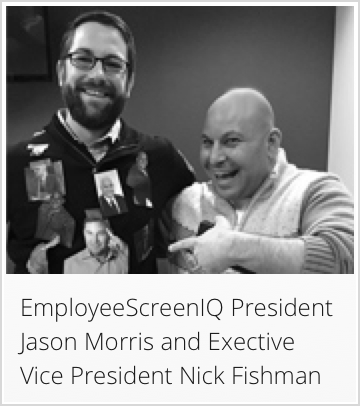
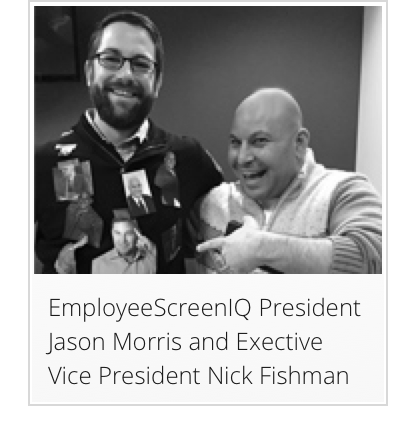
Third Draft - fisher VISTA - EmployeeScreenIQ
#1 the ESIQ logo on dark blue bar looks odd.  It seems perhaps it ought
to be left aligned or aligned with the Top 5 reasons.  Can you take a
look at that please?

#2 Any way to work in the ESIQ green?  If not NBD - I really like the
blue.

#3 Optimized for E-mail

diff --git a/trends_survey_v3.html b/trends_survey_v3.html
@@ -12,59 +12,59 @@
     @import url(http://fonts.googleapis.com/css?family=PT+Serif:400,700,400italic,700italic);
     
 a:hover {
-color: #165B9B !important;
+color: #679A29 !important;
 }
 a:active {
-color: #165B9B !important;
+color: #679A29 !important;
 }
 a:visited {
-color: #165B9B !important;
+color: #679A29 !important;
 }
 h1 a:active {
-color: #43A0F5 !important;
+color: #5B8726 !important;
 }
 h2 a:active {
-color: #43A0F5 !important;
+color: #5B8726 !important;
 }
 h3 a:active {
-color: #43A0F5 !important;
+color: #5B8726 !important;
 }
 h4 a:active {
-color: #43A0F5 !important;
+color: #5B8726 !important;
 }
 h5 a:active {
-color: #43A0F5 !important;
+color: #5B8726 !important;
 }
 h6 a:active {
-color: #43A0F5 !important;
+color: #5B8726 !important;
 }
 h1 a:visited {
-color: #43A0F5 !important;
+color: #5B8726 !important;
 }
 h2 a:visited {
-color: #43A0F5 !important;
+color: #5B8726 !important;
 }
 h3 a:visited {
-color: #43A0F5 !important;
+color: #5B8726 !important;
 }
 h4 a:visited {
-color: #43A0F5 !important;
+color: #5B8726 !important;
 }
 h5 a:visited {
-color: #43A0F5 !important;
+color: #5B8726 !important;
 }
 h6 a:visited {
-color: #43A0F5 !important;
+color: #5B8726 !important;
 }
 /* Survey Button Hover Colors */
 table.button:hover td {
-background: #2593F8 !important;
+background: #679A29 !important;
 }
 table.button:visited td {
-background: #2593F8 !important;
+background: #679A29 !important;
 }
 table.button:active td {
-background: #2593F8 !important;
+background: #679A29 !important;
 }
 table.button:hover td a {
 color: #fff !important;
@@ -76,16 +76,16 @@ table.button:active td a {
 color: #fff !important;
 }
 table.tiny-button:hover td {
-background: #2593F8 !important;
+background: #679A29 !important;
 }
 table.small-button:hover td {
-background: #2593F8 !important;
+background: #679A29 !important;
 }
 table.medium-button:hover td {
-background: #2593F8 !important;
+background: #679A29 !important;
 }
 table.large-button:hover td {
-background: #2593F8 !important;
+background: #679A29 !important;
 }
 table.button:hover td a {
 color: #ffffff !important;
@@ -352,7 +352,11 @@ background: #CC0000 !important;
   }
   /* telephone number */
   a[href^=tel] {
-  color: #43A0F5 !important;
+  color: #5B8726 !important;
+  text-decoration:none;
+  }
+  a[href^=mapLink] {
+  color: #5B8726 !important;
   text-decoration:none;
   }
   /* Formats social icons on Mobile */
@@ -416,9 +420,9 @@ background: #CC0000 !important;
                 <td style="margin: 0px; padding: 0px; vertical-align: top; border-collapse: collapse !important;" >
                                             
                   <!-- Headline -->
-                  <br/ >
-                  <h1 style="margin: 0px; padding: 0px 0px 30px 0px; text-align: center; color: #43A0F5; line-height: 85%; font-family: 'PT Serif', Times, Times New Roman, Garamond, serif; font-size: 60px; font-weight: lighter; -ms-word-break: normal;" align="left">Top <span style="font-size: 80px;">5</span> Reasons </h1>
-                                              
+                  <br />
+                  <h1 style="margin: 0px; padding: 0px; text-align: center; color: #5B8726; line-height: 85%; font-family: 'PT Serif', Times, Times New Roman, Garamond, serif; font-size: 60px; font-weight: lighter; -ms-word-break: normal;" align="left">Top <span style="font-size: 80px;">5</span> Reasons </h1>
+                  <br />                            
                   <h1 style="margin: 0px; padding: 0px; text-align: center; color: #222222; line-height: 1.05; font-family: 'Open Sans','ArialNarrowRegular', Arial, Helvetica, sans-serif; font-size: 30px; font-weight: lighter; -ms-word-break: normal;" align="left">To Take EmployeeScreenIQ's<br />6th Annual Trends Survey Today!</h1>
                                                 
                                                 
@@ -430,7 +434,7 @@ background: #CC0000 !important;
                     <table class="button" style=" width: 70%; text-align: left; overflow: hidden; vertical-align: top; border-collapse: collapse; border-spacing: 0;">
                       <tbody>
                         <tr style="text-align: left; vertical-align: top;" align="left">
-                          <td onclick="location.href='https://www.surveymonkey.com/s/PWWLQRL'" align="center" valign="top" bgcolor="#43A0F5" style="margin: 0px; width: auto !important; border-radius: 40px;  display: block; border-collapse: collapse !important;">
+                          <td onclick="location.href='https://www.surveymonkey.com/s/PWWLQRL'" align="center" valign="top" bgcolor="#5B8726" style="margin: 0px; width: auto !important; border-radius: 40px;  display: block; border-collapse: collapse !important;">
                             <br/ >
                             <a style="color: #ffffff; line-height: 110%; text-align: center; font-family: 'Open Sans','ArialNarrowRegular', Arial, Helvetica, sans-serif; font-size: 30px; font-weight: bold; text-decoration: none;" href="https://www.surveymonkey.com/s/PWWLQRL" target="_blank">Take The Survey!</a>
                             <br/ >
@@ -493,9 +497,9 @@ background: #CC0000 !important;
                           <!-- Ampersand -->  
                           <td class="amp" width="96%" valign="top" style="margin: 0px; padding: 0px; border-collapse: collapse !important;">
                             <center>
-                            <img src="http://www.hrmarketer.com/users/clients/employeescreeniq/trends_survey/images/And.png" alt="&" width="100%"  hspace="0" vspace="0" border="0" />
+                            <img src="http://www.hrmarketer.com/users/clients/employeescreeniq/trends_survey/images/AndGreen.png" alt="&" width="100%"  hspace="0" vspace="0" border="0" />
                             </center>  
-                            <!--<span style="margin: 0px; padding: 0px; text-align: center; color: #43A0F5; font-family: 'PT Serif', Times, Times New Roman, Garamond, serif; font-size: 80px; height: 40px; font-weight: lighter; font-style: italic; -ms-word-break: normal; float: left;" align="left">&amp;</span>-->
+                            <!--<span style="margin: 0px; padding: 0px; text-align: center; color: #5B8726; font-family: 'PT Serif', Times, Times New Roman, Garamond, serif; font-size: 80px; height: 40px; font-weight: lighter; font-style: italic; -ms-word-break: normal; float: left;" align="left">&amp;</span>-->
                           </td>   
                              
                           <!-- right space -->
@@ -505,7 +509,7 @@ background: #CC0000 !important;
                     </tbody>   
                   </table> 
                                                 
-                  <h1 style="margin: 0px; padding: 0px; text-align: center; color: #43A0F5; line-height: 1.05; font-family: 'PT Serif', Times, Times New Roman, Garamond, serif; font-size: 30px; font-weight: lighter; font-style: italic; -ms-word-break: normal;" align="left"> 
+                  <h1 style="margin: 0px; padding: 0px; text-align: center; color: #5B8726; line-height: 1.05; font-family: 'PT Serif', Times, Times New Roman, Garamond, serif; font-size: 30px; font-weight: lighter; font-style: italic; -ms-word-break: normal;" align="left"> 
                                               the number one reason to take the survey:</h1>
                                              
                   <!-- One -->
@@ -522,7 +526,7 @@ background: #CC0000 !important;
                       <tbody>
                                                         
                         <tr style="text-align: left; vertical-align: top;" align="left">
-                          <td onclick="location.href='https://www.surveymonkey.com/s/PWWLQRL'" align="center" valign="top" bgcolor="#43A0F5" style="margin: 0px; width: auto !important; border-radius: 40px;  display: block; border-collapse: collapse !important;">
+                          <td onclick="location.href='https://www.surveymonkey.com/s/PWWLQRL'" align="center" valign="top" bgcolor="#5B8726" style="margin: 0px; width: auto !important; border-radius: 40px;  display: block; border-collapse: collapse !important;">
                             <br/ >
                             <a style="color: #ffffff; line-height: 110%; text-align: center; font-family: 'Open Sans','ArialNarrowRegular', Arial, Helvetica, sans-serif; font-size: 30px; font-weight: bold; text-decoration: none;" href="https://www.surveymonkey.com/s/PWWLQRL" target="_blank">Take The Survey!</a>
                             <br/ >
@@ -553,7 +557,7 @@ background: #CC0000 !important;
                     <br />                    
                     <!-- Address -->
                     <p align="center" style="margin: 0px 0px 14px; padding: 0px; text-align: center; color: #222222; line-height: 21px; font-family: 'Open Sans','ArialNarrowRegular', Arial, Helvetica, sans-serif; font-size: 12px; font-weight: normal;">
-                    <span style="font-family: arial,helvetica,sans-serif;"><a style="color: #2593F8; text-decoration: none;" href="http://employeescreen.com" target="_blank">EmployeeScreenIQ</a> | P.O. Box 22627 | Cleveland, OH 44122 | <a style="color: #2593F8; text-decoration: none;" href="mailto:info@employeescreen.com">info@employeescreen.com</a> | (800) 235-3954</span>
+                    <span style="font-family: arial,helvetica,sans-serif;"><a style="color: #5B8726; text-decoration: none;" href="http://employeescreen.com" target="_blank">EmployeeScreenIQ</a> | P.O. Box 22627 | Cleveland, OH 44122 | <a style="color: #5B8726; text-decoration: none;" href="mailto:info@employeescreen.com">info@employeescreen.com</a> | (800) 235-3954</span>
                     <span style="font-family: arial,helvetica,sans-serif;">&nbsp;</span></p>
     
                     <!-- Social Sharing -->                                      

diff --git a/trends_survey.html b/trends_survey.html
@@ -451,7 +451,7 @@ background: #CC0000 !important;
                                             <p align="left" style="margin: 0px 40px 0px 40px; padding: 0px; text-align: left; color: #222222; line-height: 1.05; font-family: 'Open Sans','ArialNarrowRegular', Arial, Helvetica, sans-serif; font-size: 18px; font-weight: lighter;">
                                             
                                               <!-- Image of Jason and Nick  -->
-                                              <img src="http://www.hrmarketer.com/users/clients/employeescreeniq/trends_survey/images/nick.png" alt="EmployeeScreenIQ President Jason Morris and Exective Vice President Nick Fishman" width="50%" height="50%" hspace="0" vspace="0" border="0" align="right" style="margin: 0px 0px 20px 20px;"></a>
+                                              <img src="http://www.hrmarketer.com/users/clients/employeescreeniq/trends_survey/images/JasonAndNick.png" alt="EmployeeScreenIQ President Jason Morris and Exective Vice President Nick Fishman" width="50%" height="50%" hspace="0" vspace="0" border="0" align="right" style="margin: 0px 0px 20px 20px;"></a>
   
                                               
                                               <!-- Five -->
